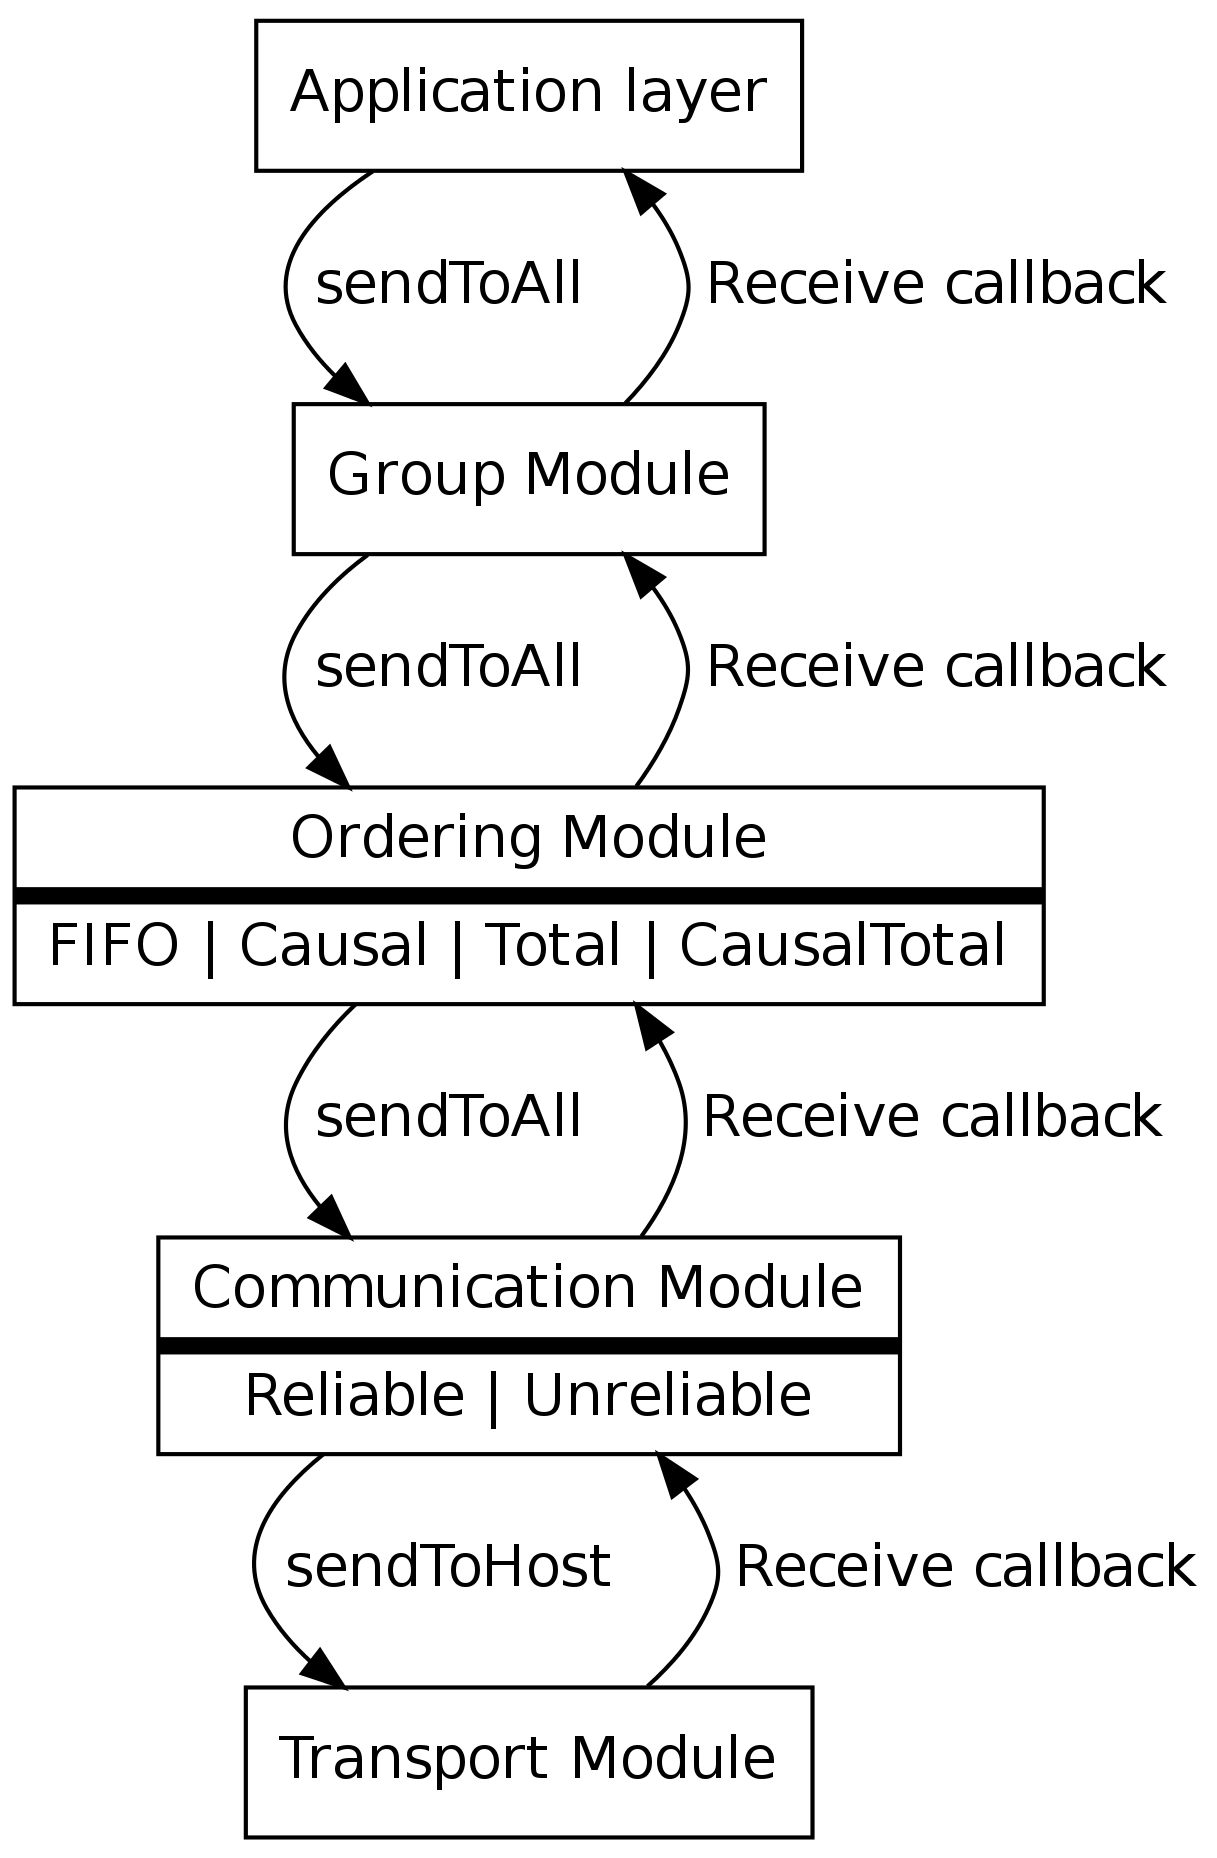
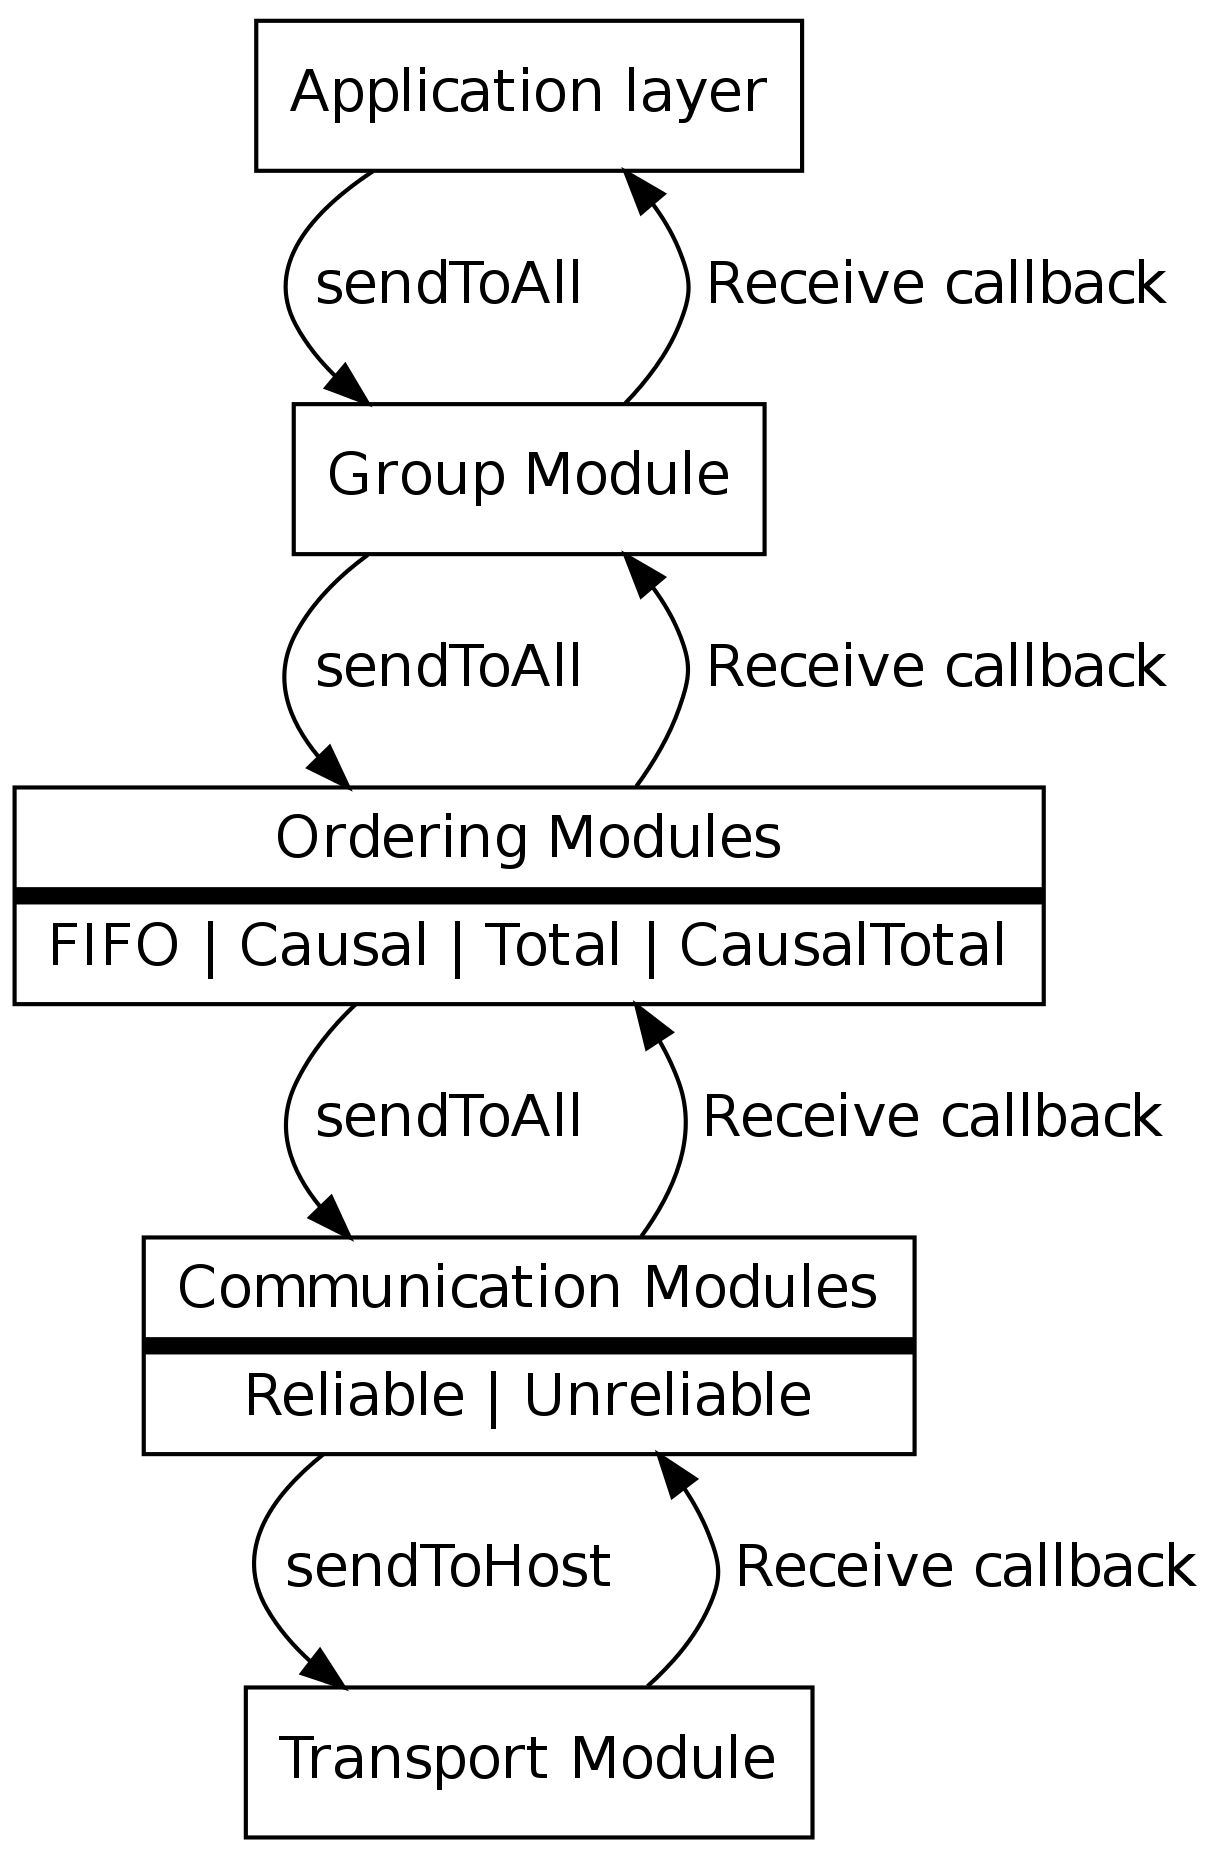
Made some further clarifications

Changed region(s): [[0.0937, 0.6555, 0.7806, 0.7804], [0.2186, 0.437, 0.6557, 0.4682]]

diff --git a/report-2/report.tex b/report-2/report.tex
@@ -224,12 +224,16 @@ methods defined in the Communicator interface. On its creation the application
 layer provides the appropriate GCom settings as well as a callback to execute
 when a message arrives. 
 
-Each module is connected to the above module through a series of chained
-callbacks, these are displayed as can be seen in figure \ref{fig:modules}.
+Each layer in our system hooks into the lower layer by providing a callback 
+to call when a message is ready for the next level. To send a message the 
+application layer calls the sendToAll method on the group module which then 
+passes the message down in the stack. Each module adds the specific information 
+needed as the message passes through. The different layers and modules can 
+be seen in figure \ref{fig:modules}
 
 \begin{figure}[h]
 \centering
-\includegraphics[height=14cm]{graph2}
+\includegraphics[height=12cm]{graph2}
 \caption{Overview of the system}
 \label{fig:modules}
 \end{figure}
@@ -243,11 +247,11 @@ graphical user interface can listen to that component. When the components have
 something new to push to the interface they publish an event containing that
 specific information. 
 
-\subsection{Limitations}
+\section{Limitations}
 
-Messages sent after a node has joined the network but before the node receives
-its first message are discarded by the node as invalid. Before in this context
-means different things for different ordering modules.  
+Messages sent out of order after a node has joined the network can be discarded
+if the first message received by the node is not the first message sent. The
+ordering modules will discard on individual criteria.
 
 \pagebreak
 
